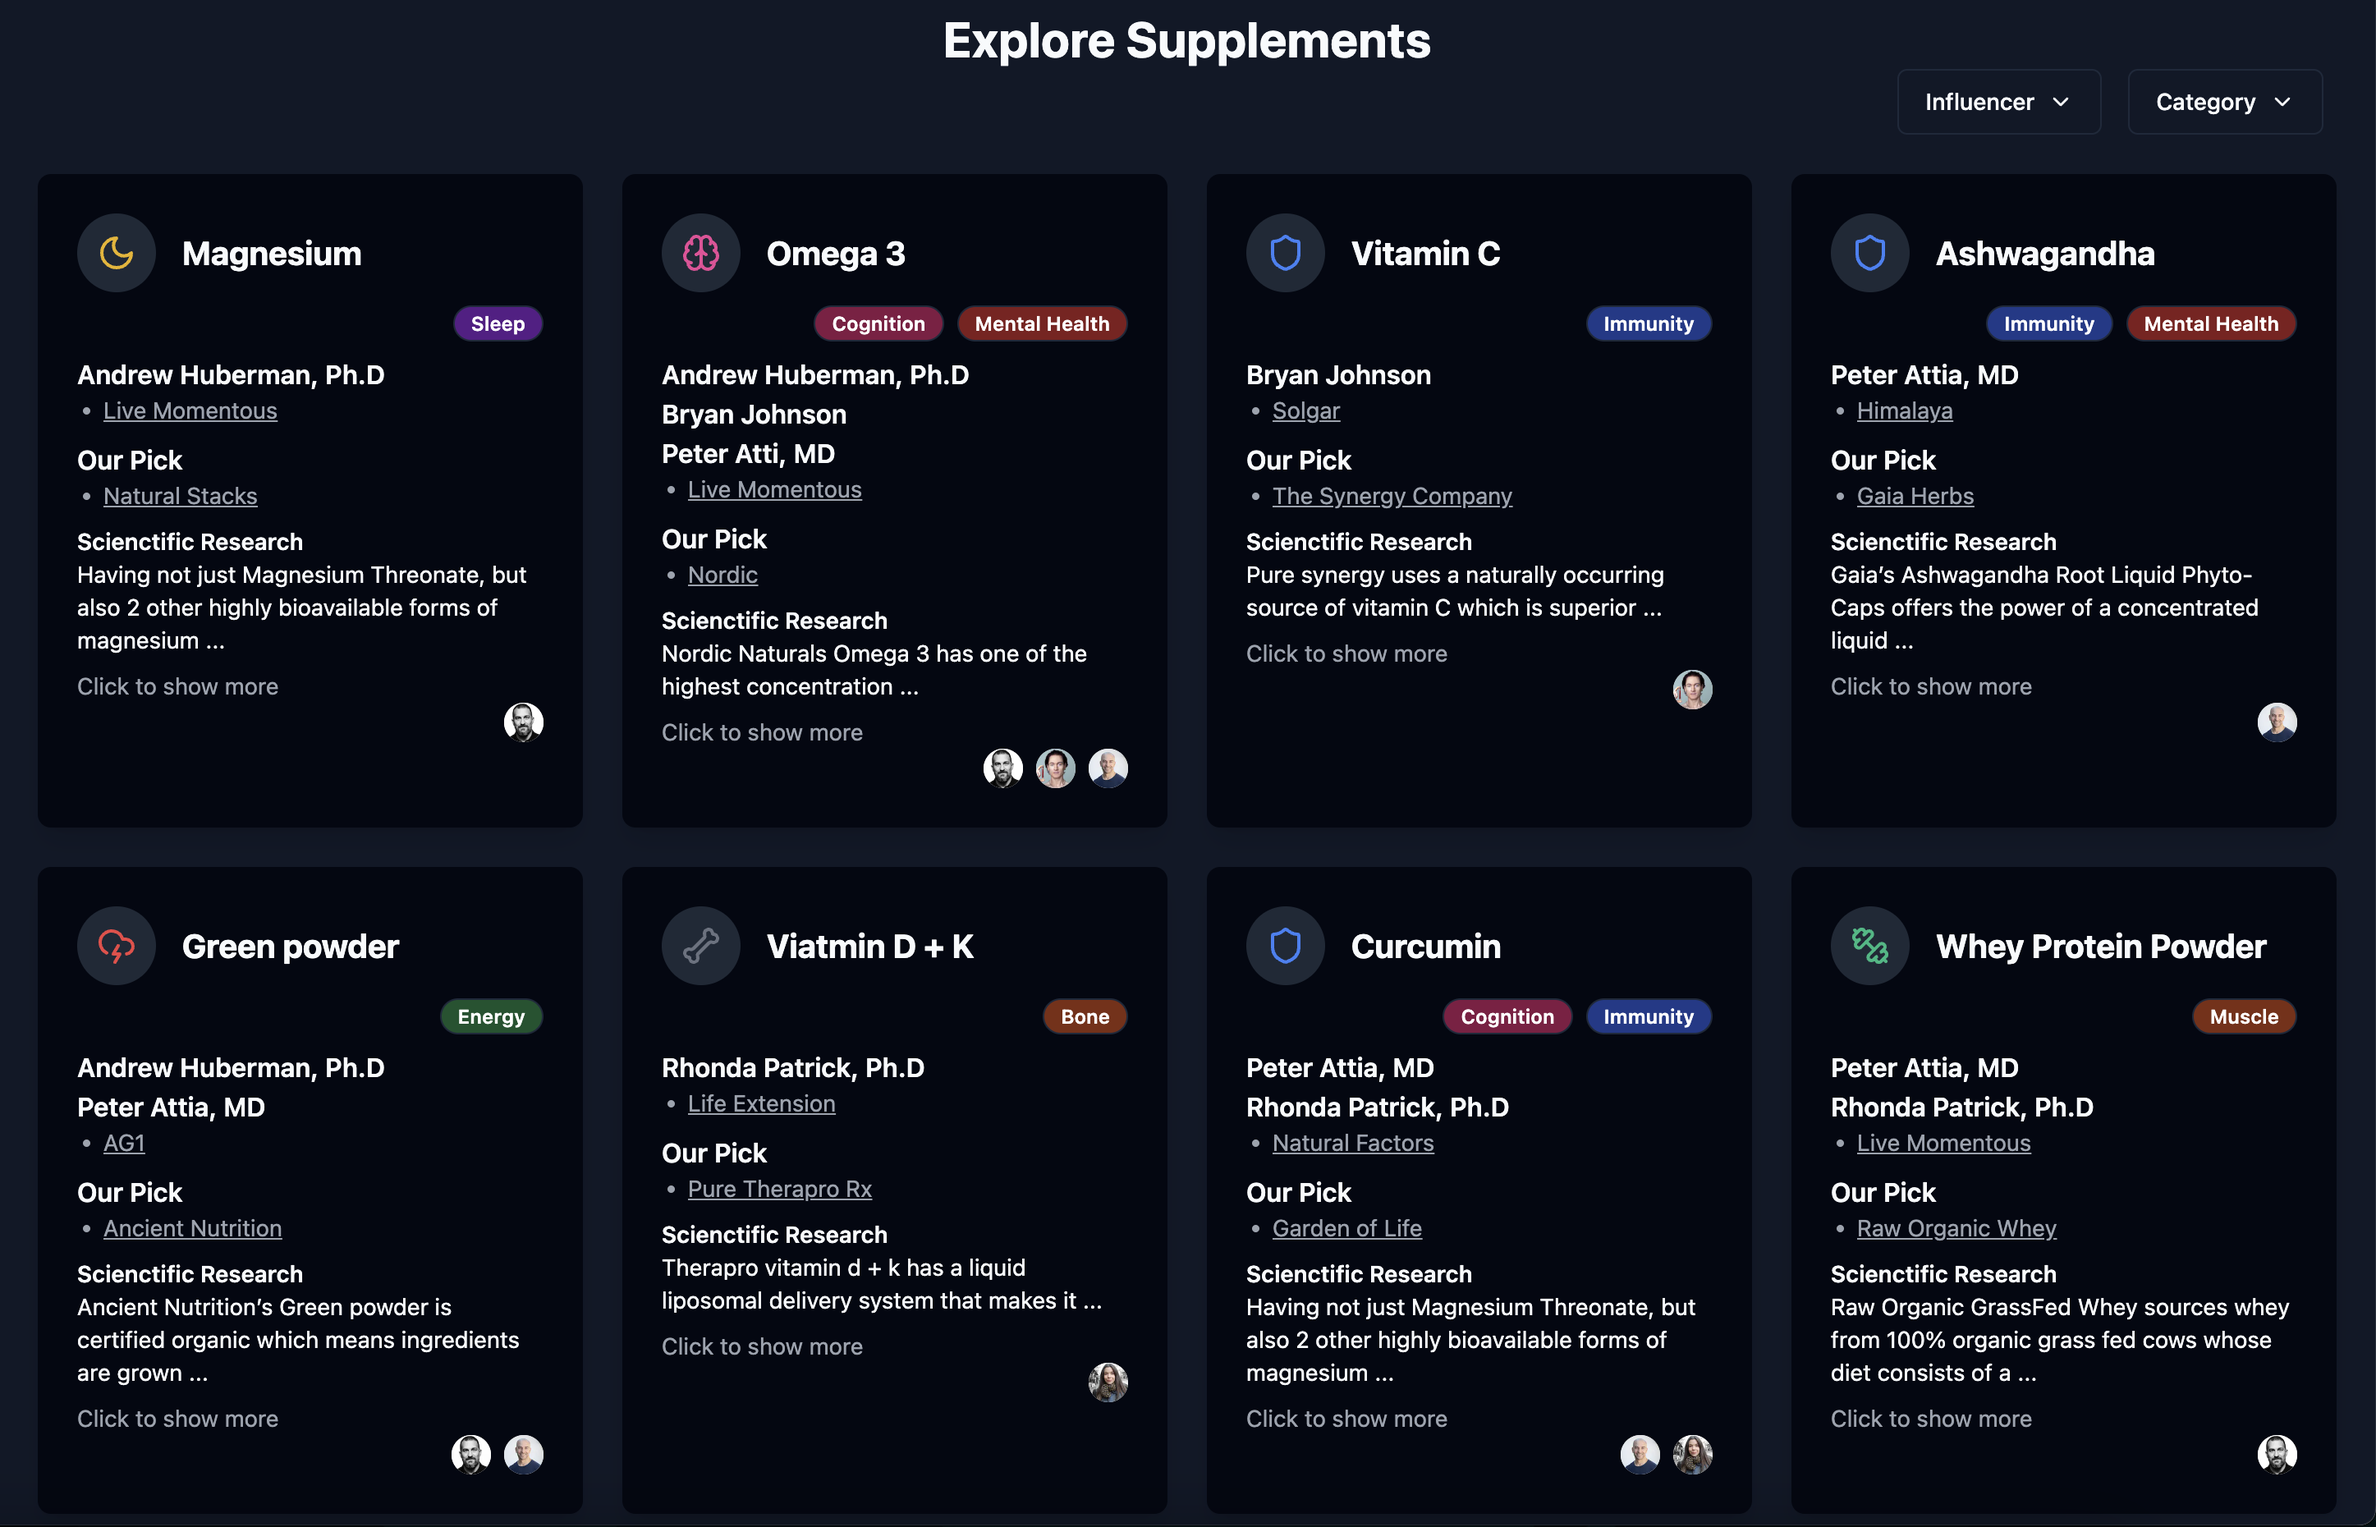
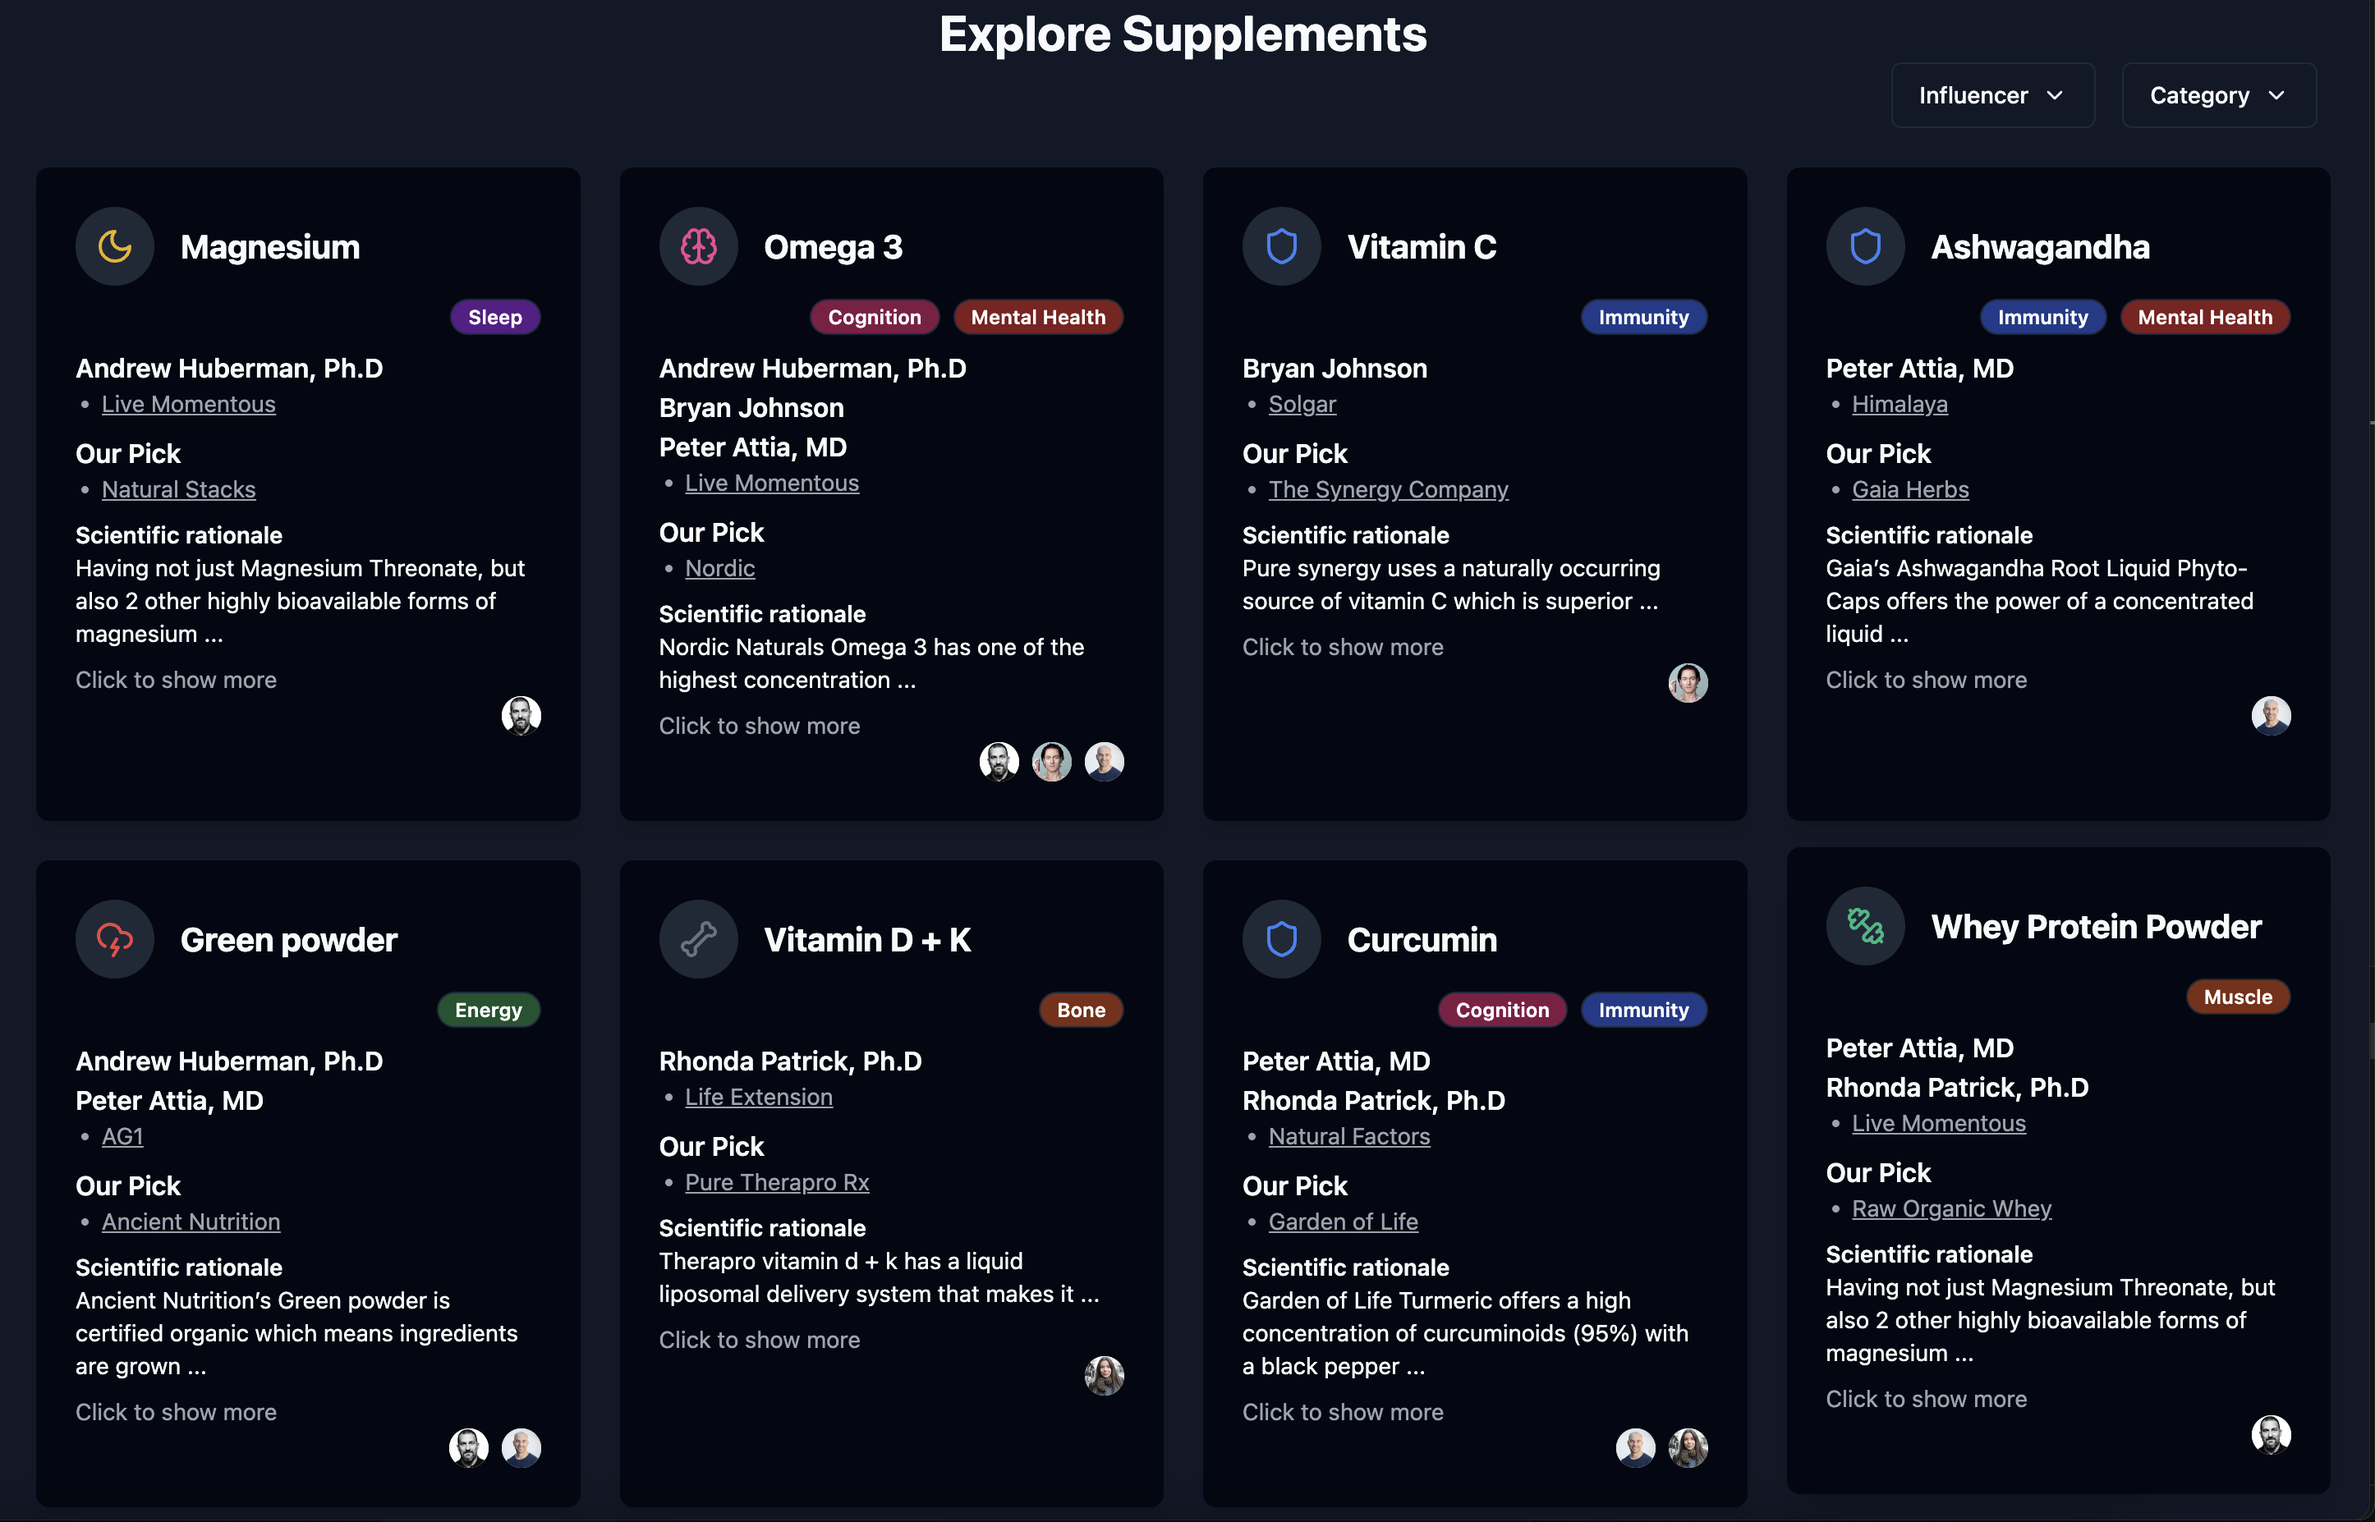
adding pricing

diff --git a/app/home/supplements/page.tsx b/app/home/supplements/page.tsx
@@ -102,7 +102,7 @@ function Convert() {
                 </ul>
               </a>
               <div className="mt-2">
-                <p className="font-semibold text-sm">Scienctific Research</p>
+                <p className="font-semibold text-sm">Scientific rationale</p>
                 <p className="text-sm">
                   Having not just Magnesium Threonate, but also 2 other highly
                   bioavailable forms of magnesium ...
@@ -150,7 +150,7 @@ function Convert() {
             <div className="mt-2">
               <p className="font-semibold">Andrew Huberman, Ph.D</p>
               <p className="font-semibold">Bryan Johnson</p>
-              <p className="font-semibold">Peter Atti, MD</p>
+              <p className="font-semibold">Peter Attia, MD</p>
               <a
                 href="#"
                 className="underline text-gray-500 text-sm mt-1 dark:text-gray-400"
@@ -171,7 +171,7 @@ function Convert() {
                 </ul>
               </a>
               <div className="mt-2">
-                <p className="font-semibold text-sm">Scienctific Research</p>
+                <p className="font-semibold text-sm">Scientific rationale</p>
                 <p className="text-sm">
                   Nordic Naturals Omega 3 has one of the highest concentration
                   ...
@@ -250,7 +250,7 @@ function Convert() {
                 </ul>
               </a>
               <div className="mt-2">
-                <p className="font-semibold text-sm">Scienctific Research</p>
+                <p className="font-semibold text-sm">Scientific rationale</p>
                 <p className="text-sm">
                   Pure synergy uses a naturally occurring source of vitamin C
                   which is superior ...
@@ -317,7 +317,7 @@ function Convert() {
                 </ul>
               </a>
               <div className="mt-2">
-                <p className="font-semibold text-sm">Scienctific Research</p>
+                <p className="font-semibold text-sm">Scientific rationale</p>
                 <p className="text-sm">
                   Gaia’s Ashwagandha Root Liquid Phyto-Caps offers the power of
                   a concentrated liquid ...
@@ -379,7 +379,7 @@ function Convert() {
                 </ul>
               </a>
               <div className="mt-2">
-                <p className="font-semibold text-sm">Scienctific Research</p>
+                <p className="font-semibold text-sm">Scientific rationale</p>
                 <p className="text-sm">
                   Ancient Nutrition’s Green powder is certified organic which
                   means ingredients are grown ...
@@ -417,7 +417,7 @@ function Convert() {
               <div className="bg-gray-100 p-3 rounded-full dark:bg-gray-800">
                 <BoneIcon className="w-6 h-6 text-gray-500" />
               </div>
-              <h3 className="text-xl font-bold">Viatmin D + K</h3>
+              <h3 className="text-xl font-bold">Vitamin D + K</h3>
             </div>
             <div className="flex items-center justify-end mt-2">
               <Badge
@@ -449,7 +449,7 @@ function Convert() {
                 </ul>
               </a>
               <div className="mt-2">
-                <p className="font-semibold text-sm">Scienctific Research</p>
+                <p className="font-semibold text-sm">Scientific rationale</p>
                 <p className="text-sm">
                   Therapro vitamin d + k has a liquid liposomal delivery system
                   that makes it ...
@@ -517,10 +517,10 @@ function Convert() {
                 </ul>
               </a>
               <div className="mt-2">
-                <p className="font-semibold text-sm">Scienctific Research</p>
+                <p className="font-semibold text-sm">Scientific rationale</p>
                 <p className="text-sm">
-                  Having not just Magnesium Threonate, but also 2 other highly
-                  bioavailable forms of magnesium ...
+                  Garden of Life Turmeric offers a high concentration of
+                  curcuminoids (95%) with a black pepper ...
                 </p>
               </div>
               <p className="text-gray-500 text-sm mt-2 dark:text-gray-400">
@@ -588,7 +588,7 @@ function Convert() {
                 </ul>
               </a>
               <div className="mt-2">
-                <p className="font-semibold text-sm">Scienctific Research</p>
+                <p className="font-semibold text-sm">Scientific rationale</p>
                 <p className="text-sm">
                   Having not just Magnesium Threonate, but also 2 other highly
                   bioavailable forms of magnesium ...

diff --git a/app/page.tsx b/app/page.tsx
@@ -25,7 +25,7 @@ export default function Home() {
       <Hero />
       <Features />
       <Faqs />
-      {/* <Pricing /> */}
+      <Pricing />
       <Cta />
     </main>
   );
